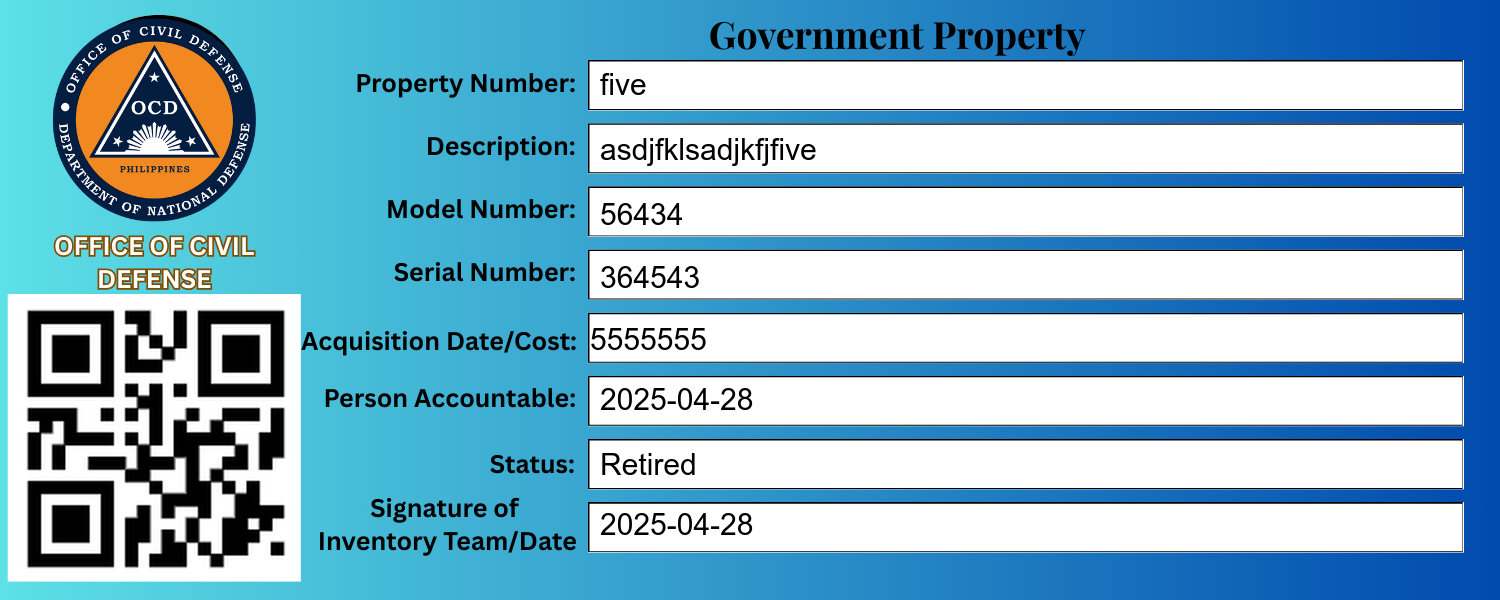
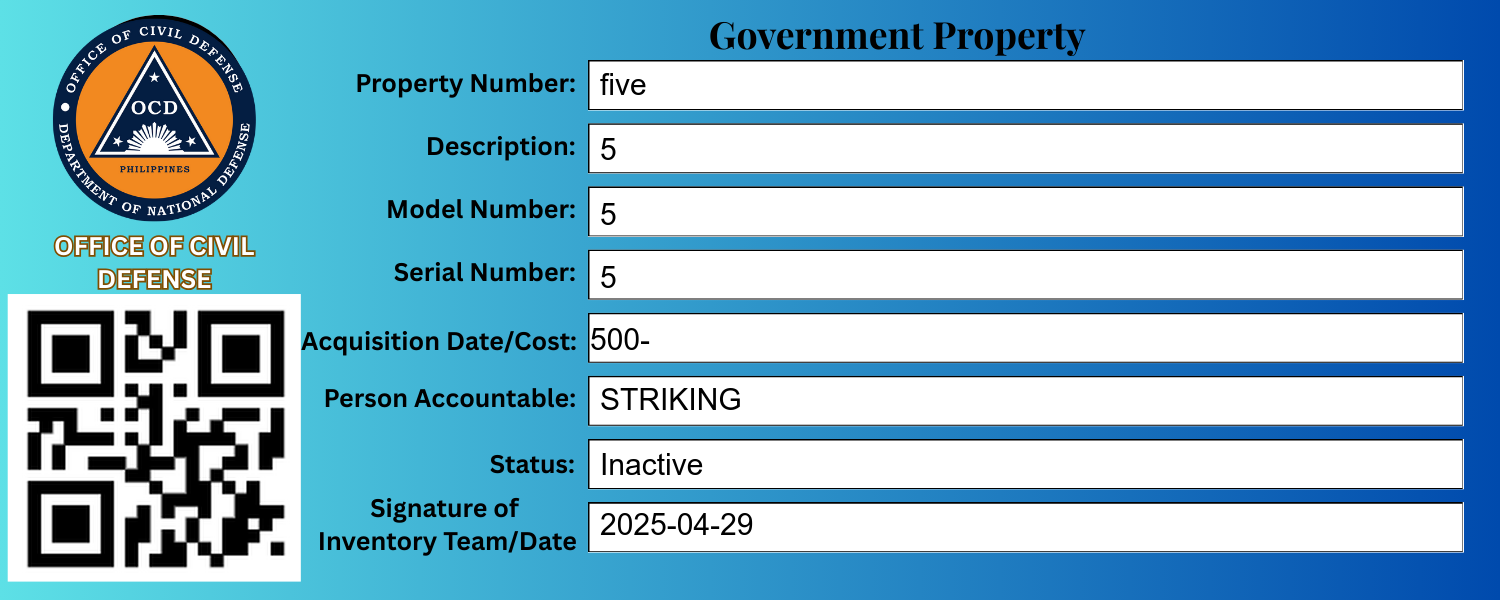
fixed the logs errors

diff --git a/pages/landing/edit-item.php b/pages/landing/edit-item.php
@@ -29,7 +29,8 @@ if ($_SERVER['REQUEST_METHOD'] === 'POST') {
         serial_number = ?,
         acquisition_date_cost = ?,
         person_accountable = ?,
-        status = ?
+        status = ?,
+        signature_of_inventory_team_date = ?
         WHERE id = ?");
         
     $stmt->execute([
@@ -40,6 +41,7 @@ if ($_SERVER['REQUEST_METHOD'] === 'POST') {
         $_POST['acquisition_date_cost'],
         $_POST['person_accountable'],
         $_POST['status'],
+        $_POST['signature_of_inventory_team_date'],
         $item['id']
     ]);
     
@@ -56,7 +58,8 @@ if ($_SERVER['REQUEST_METHOD'] === 'POST') {
         'serial_number' => $_POST['serial_number'],
         'acquisition_date_cost' => $_POST['acquisition_date_cost'],
         'person_accountable' => $_POST['person_accountable'],
-        'status' => $_POST['status']
+        'status' => $_POST['status'],
+        'date' => $_POST['signature_of_inventory_team_date'],
     ];
 
     // Log detailed activity
@@ -73,8 +76,20 @@ if ($_SERVER['REQUEST_METHOD'] === 'POST') {
         ':description' => ' ' . $_POST['description']
     ]);
 
-    header("Location: edit.php?success=1");
-    exit();
+    // Update property number and re-fetch item with new data
+    $propertyNumber = $_POST['property_number'];
+    $stmt = $pdo->prepare("SELECT * FROM inventory WHERE property_number = ?");
+    $stmt->execute([$propertyNumber]);
+    $item = $stmt->fetch(PDO::FETCH_ASSOC);
+    
+    // Auto-generate QR code if missing
+    $qrPath = $_SERVER['DOCUMENT_ROOT'] . '/inventory-system/qr/' . $propertyNumber . '.png';
+    if (!file_exists($qrPath)) {
+        $qrResponse = file_get_contents("http://localhost/inventory-system/generate_qr.php?property_number=" . urlencode($propertyNumber));
+        if ($qrResponse === false) {
+            die("Failed to generate QR code. Please check the QR generation script.");
+        }
+    }
 }
 ?>
 <!DOCTYPE html>
@@ -130,11 +145,33 @@ if ($_SERVER['REQUEST_METHOD'] === 'POST') {
         
         <div class="form-group">
             <label>Date:</label>
-            <input type="text" name="" value="<?= htmlspecialchars($item['signature_of_inventory_team_date']) ?>">
+            <input type="date" name="signature_of_inventory_team_date" value="<?= htmlspecialchars($item['signature_of_inventory_team_date']) ?>">
         </div>
         
         <button type="submit" class="save-btn">Save Changes</button>
     </form>
 
+    <?php if (isset($showSuccess)): ?>
+    <div class="success-banner">
+        Changes saved successfully! Updated QR code:
+        <?php if (file_exists($_SERVER['DOCUMENT_ROOT'] . '/inventory-system/qr/' . $item['property_number'] . '.png')): ?>
+            <img src="/inventory-system/qr/<?= htmlspecialchars($item['property_number']) ?>.png" alt="QR Code" class="qr-image">
+        <?php else: ?>
+            <p class="qr-missing">QR code not generated yet. <a href="/inventory-system/generate_qr.php?property_number=<?= $item['property_number'] ?>">Generate Now</a></p>
+        <?php endif; ?>
+    </div>
+    <?php endif; ?>
+
+    <div class="qr-section">
+        <h2>QR Sticker</h2>
+        <?php if (file_exists($_SERVER['DOCUMENT_ROOT'] . '/inventory-system/qr/' . $item['property_number'] . '.png')): ?>
+            <img src="/inventory-system/qr/<?= htmlspecialchars($item['property_number']) ?>.png" alt="QR Code" class="qr-image">
+        <?php else: ?>
+            <p class="qr-missing">QR code not generated yet</p>
+        <?php endif; ?>
+        <a href="/inventory-system/generate_qr.php?property_number=<?= $item['property_number'] ?>" class="generate-qr-btn">Generate QR</a>
+    </div>
+
+    <script src="/inventory-system/public/scripts/qr-generator.js"></script>
 </body>
 </html>

diff --git a/pages/landing/data.php b/pages/landing/data.php
@@ -9,14 +9,15 @@
     <h1>Inventory Database</h1>
 
     <?php
-    $pdo = new PDO("mysql:host=localhost;dbname=inventory-system", "root", "");
+$pdo = new PDO("mysql:host=localhost;dbname=inventory-system", "root", "");
 
-    // Prepare and execute the query to fetch all data
-    $sql = "SELECT * FROM inventory";
-    $stmt = $pdo->prepare($sql);
-    $stmt->execute();
-    $items = $stmt->fetchAll(PDO::FETCH_ASSOC);
-    ?>
+// This now orders from latest to oldest based on date
+$sql = "SELECT * FROM inventory ORDER BY signature_of_inventory_team_date DESC";
+$stmt = $pdo->prepare($sql);
+$stmt->execute();
+$items = $stmt->fetchAll(PDO::FETCH_ASSOC);
+?>
+
 
     <table class="inventory-table">
         <thead>

diff --git a/pages/landing.php b/pages/landing.php
@@ -26,7 +26,7 @@
 
     <div class="content-area">
         <?php
-        $page = $_GET['page'] ?? 'landing';
+        $page = $_GET['page'] ?? 'home';
         
         switch($page) {
             case 'home':
@@ -44,9 +44,8 @@
             case 'edit':
                 include 'landing/edit.php';
                 break;
-            case 'landing':
             default:
-                echo '<div class="default-content"><h2>Welcome to Inventory System</h2></div>';
+                include 'landing/home.php';
         }
         ?>
     </div>
